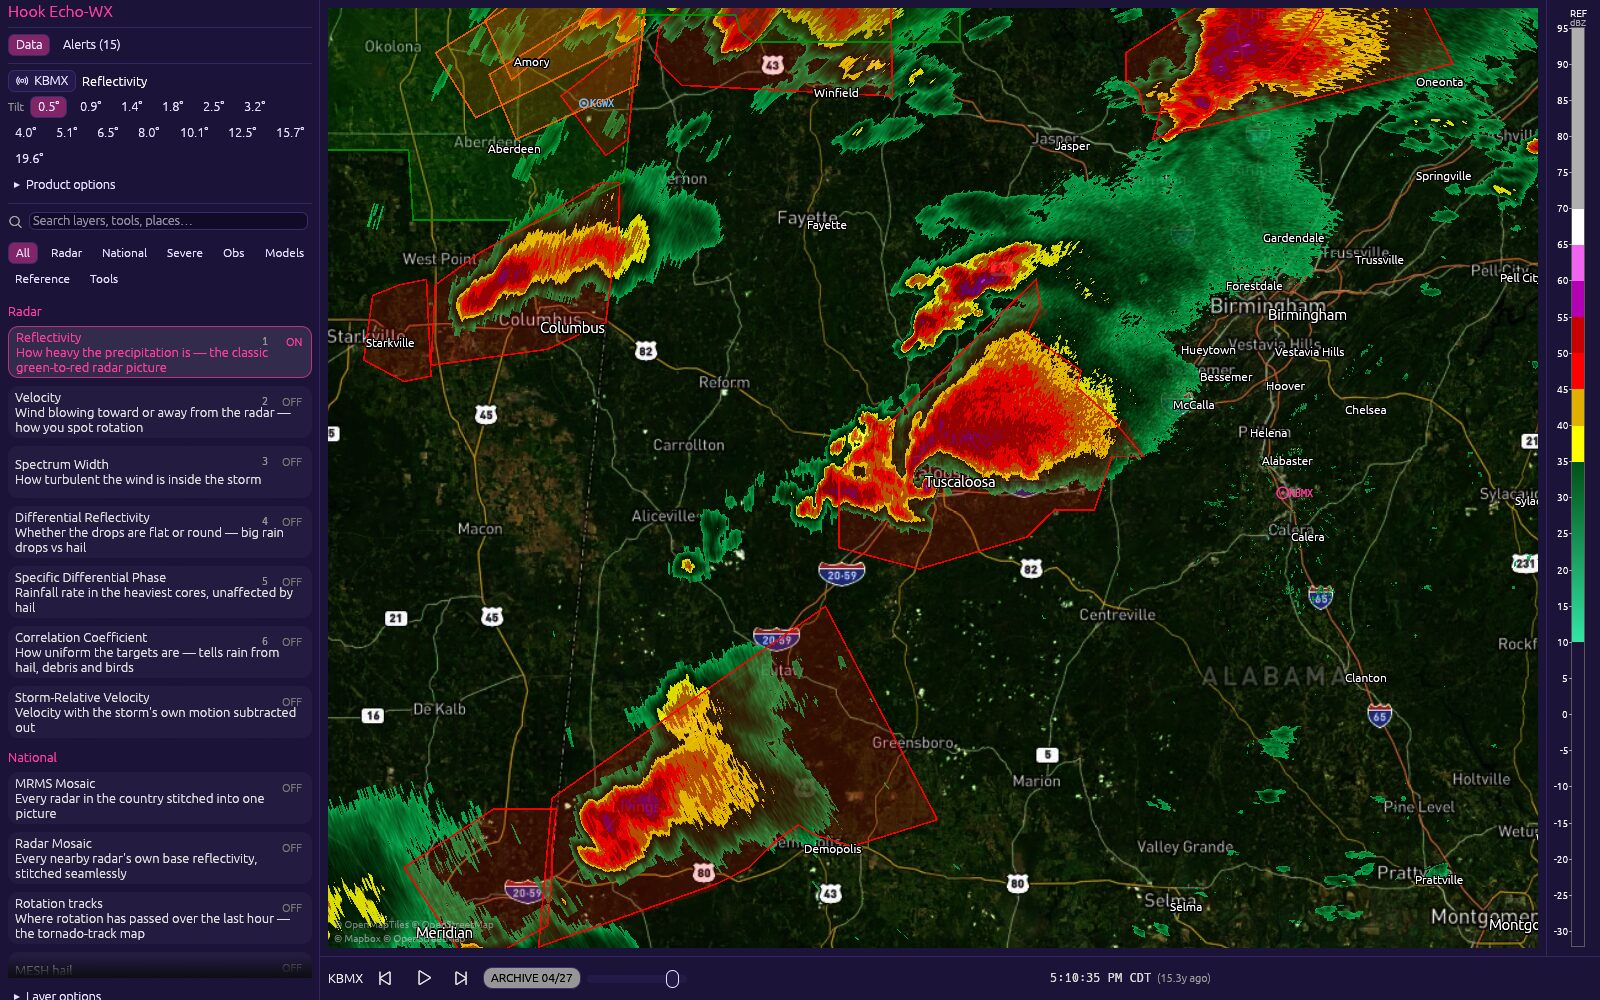
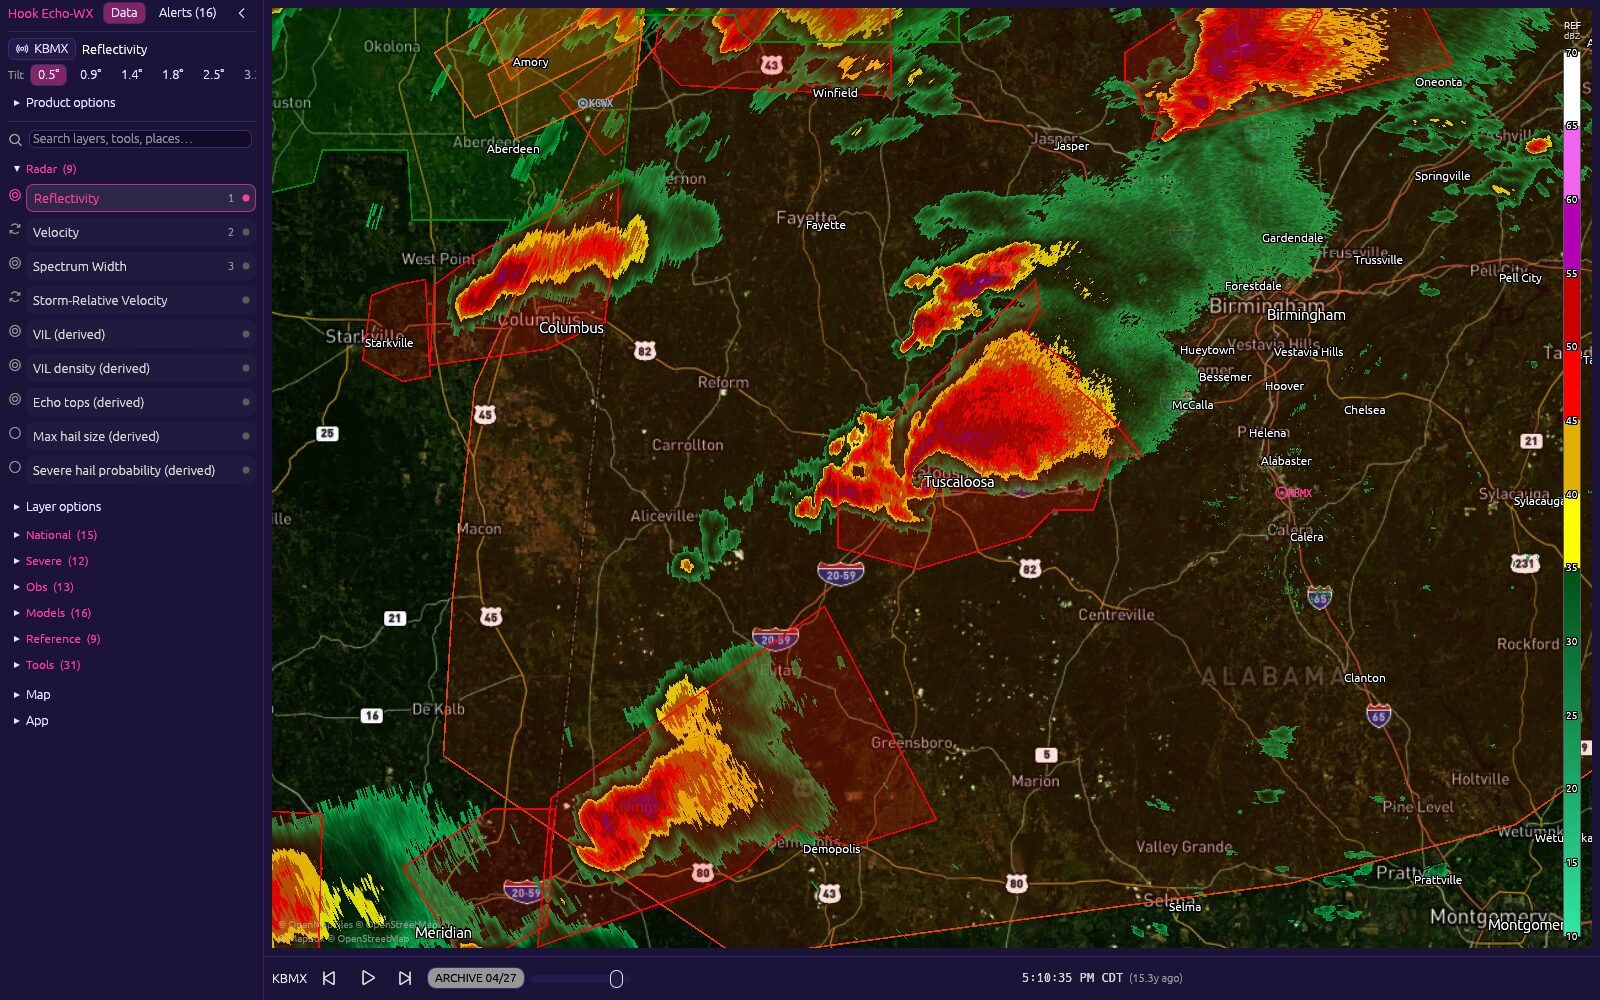
feat(legend): thin floating colorbar over the map's colored range only
The moment scale was a 54 px docked right panel spanning the moment's full
encodable range, so reflectivity spent a third of the map's edge on -32..10 dBZ
that has no color at all.

It's now a 16 px bar floating over the map (no panel, no card, nothing behind
it), spanning the color table's own first..last stop, with the tick labels
halo'd on the bar and the product/units caption above it. The map gets the
54 px back and each pane draws its own product's scale.

diff --git a/crates/hookecho/src/ui/legend.rs b/crates/hookecho/src/ui/legend.rs
@@ -1,7 +1,7 @@
 //! Color scales for what's on the map.
 //!
-//! The active moment's scale is the docked right-edge colorbar ([`draw_vertical`]); gridded field
-//! layers and the wind ramp keep their small cards over the map's top-left.
+//! The active moment's scale is a thin bar floating over the map's right edge ([`draw_vertical`]);
+//! gridded field layers and the wind ramp keep their small cards over the map's top-left.
 //!
 //! Draws the active moment's `ColorTable` across its data range as a gradient bar (one
 //! `egui::Mesh` quad per stop segment, per-vertex colors so `Color:` gradients show), with
@@ -34,10 +34,12 @@ fn card(painter: &egui::Painter, panel: Rect) {
     );
 }
 
-/// Paint the moment scale as a thin vertical bar filling `rect` (the right-edge colorbar panel).
+/// Paint the moment scale as a thin vertical bar floating over the right edge of `rect` (the map).
 ///
-/// Same table, same threshold dim, same tick stride logic as [`draw`] with the axes swapped:
-/// vmax at the top, ticks and labels to the left of the bar, unit caption above it.
+/// No card: the bar is the legend, so the map reads through everywhere else. It spans the color
+/// table's own stops rather than the moment's full encodable range — reflectivity's -32..10 dBZ
+/// is uncolored, and a third of the bar spent on nothing is a third of the map's edge wasted.
+/// Labels ride on the bar (halo'd, so they read over any color) instead of a gutter beside it.
 pub fn draw_vertical(
     painter: &egui::Painter,
     rect: Rect,
@@ -47,12 +49,15 @@ pub fn draw_vertical(
     disp_factor: f32,
     disp_label: &str,
 ) {
-    const W: f32 = 12.0;
-    let (vmin, vmax) = moment.value_range();
+    const W: f32 = 16.0;
+    let (vmin, vmax) = match (table.stops.first(), table.stops.last()) {
+        (Some(a), Some(b)) if b.value > a.value => (a.value, b.value),
+        _ => moment.value_range(),
+    };
     let span = (vmax - vmin).max(f32::EPSILON);
     let bar = Rect::from_min_max(
-        egui::pos2(rect.right() - W - 8.0, rect.top() + 26.0),
-        egui::pos2(rect.right() - 8.0, rect.bottom() - 8.0),
+        egui::pos2(rect.right() - W - INSET, rect.top() + INSET + 32.0),
+        egui::pos2(rect.right() - INSET, rect.bottom() - INSET),
     );
     let y_of = |value: f32| bar.bottom() - ((value - vmin) / span).clamp(0.0, 1.0) * bar.height();
     let col = |c: [u8; 4]| Color32::from_rgb(c[0], c[1], c[2]);
@@ -109,11 +114,29 @@ pub fn draw_vertical(
     );
 
     let font = FontId::proportional(10.0);
+    // On-bar text needs its own contrast: an 8-way black halo, the same trick the map's city
+    // labels use over imagery.
     let label = |v: f32, y: f32| {
+        let text = format!("{:.0}", v * disp_factor);
+        let at = egui::pos2(bar.center().x, y);
+        for dx in [-1.0, 0.0, 1.0] {
+            for dy in [-1.0, 0.0, 1.0] {
+                if dx == 0.0 && dy == 0.0 {
+                    continue;
+                }
+                painter.text(
+                    at + Vec2::new(dx, dy),
+                    Align2::CENTER_CENTER,
+                    &text,
+                    font.clone(),
+                    Color32::BLACK,
+                );
+            }
+        }
         painter.text(
-            egui::pos2(bar.left() - 4.0, y),
-            Align2::RIGHT_CENTER,
-            format!("{:.0}", v * disp_factor),
+            at,
+            Align2::CENTER_CENTER,
+            text,
             font.clone(),
             Color32::WHITE,
         );
@@ -127,8 +150,8 @@ pub fn draw_vertical(
             while v <= vmax && n < 128 {
                 let y = y_of(v);
                 painter.line_segment(
-                    [egui::pos2(bar.left() - 3.0, y), egui::pos2(bar.left(), y)],
-                    Stroke::new(1.0, Color32::from_gray(160)),
+                    [egui::pos2(bar.left(), y), egui::pos2(bar.left() + 3.0, y)],
+                    Stroke::new(1.0, Color32::from_black_alpha(120)),
                 );
                 if v <= vmin + 0.01 || v >= vmax - 0.01 || n % label_stride == 0 {
                     label(v, y);
@@ -143,20 +166,30 @@ pub fn draw_vertical(
             label(vmax, bar.top());
         }
     }
-    painter.text(
-        egui::pos2(bar.center().x, rect.top() + 6.0),
-        Align2::CENTER_TOP,
-        moment.short_name(),
-        FontId::proportional(10.0),
-        Color32::WHITE,
-    );
-    painter.text(
-        egui::pos2(bar.center().x, rect.top() + 16.0),
-        Align2::CENTER_TOP,
-        disp_label,
-        FontId::proportional(9.0),
-        Color32::from_gray(170),
-    );
+    // Caption above the bar: product then units, small — the bar itself is the legend. Above,
+    // because the bottom end carries the busiest tick labels.
+    for (i, (text, size, color)) in [
+        (moment.short_name(), 10.0, Color32::WHITE),
+        (disp_label, 9.0, Color32::from_gray(200)),
+    ]
+    .into_iter()
+    .enumerate()
+    {
+        let at = egui::pos2(bar.center().x, bar.top() - 32.0 + i as f32 * 11.0);
+        for d in [Vec2::new(1.0, 1.0), Vec2::ZERO] {
+            painter.text(
+                at + d,
+                Align2::CENTER_TOP,
+                text,
+                FontId::proportional(size),
+                if d == Vec2::ZERO {
+                    color
+                } else {
+                    Color32::BLACK
+                },
+            );
+        }
+    }
 }
 
 /// Paint a gridded field layer's scale under the moment legend (or at the top-left when the radar

diff --git a/crates/hookecho/src/app.rs b/crates/hookecho/src/app.rs
@@ -4528,22 +4528,6 @@ impl HookEchoApp {
     }
 
     /// Thin right-edge colorbar: the active pane's moment scale, docked so it never covers the map.
-    fn colorbar(&mut self, root: &mut egui::Ui) {
-        let view = &self.views[self.active];
-        if !view.show_legend || view.volume.is_none() {
-            return;
-        }
-        let (moment, threshold) = (view.moment, view.active_threshold());
-        let table = self.palettes.table(moment).clone();
-        let (df, dl) = display_units(moment, &self.settings);
-        egui::Panel::right("colorbar")
-            .exact_size(54.0)
-            .show(root, |ui| {
-                let rect = ui.max_rect();
-                ui::legend::draw_vertical(ui.painter(), rect, moment, &table, threshold, df, dl);
-            });
-    }
-
     /// Docked timeline scrubber (desktop): transport + scrub + live badge in a full-width bar
     /// under the map. The date picker, loop and speed are one right-click away on the
     /// LIVE/ARCHIVE badge — the transport is the 95% case and gets the pixels.
@@ -10010,8 +9994,20 @@ impl HookEchoApp {
         // The boxed legend is desktop-only; Android draws a full-width color scale in the mobile
         // chrome (see `app::mobile`), so drawing both would be redundant.
         if view.show_legend && !cfg!(target_os = "android") {
-            // The moment's own scale is the docked right-edge colorbar (see `colorbar`); only the
-            // categorical field/wind ramps still need a card over the map.
+            // The moment's scale floats over this pane's right edge (no panel, no card) so the map
+            // keeps the pixels; the field/wind ramps still need their cards.
+            if view.volume.is_some() {
+                let (df, dl) = display_units(view.moment, &self.settings);
+                ui::legend::draw_vertical(
+                    &painter,
+                    prect,
+                    view.moment,
+                    self.palettes.table(view.moment),
+                    view.active_threshold(),
+                    df,
+                    dl,
+                );
+            }
             let mut y = 0.0;
             // Whichever gridded layer the user actually sees on top — the last enabled one in
             // paint order — gets its scale keyed underneath. Without this, MESH/QPE/VIL and the
@@ -11787,7 +11783,6 @@ impl eframe::App for HookEchoApp {
             if !self.settings.hide_toolbar {
                 self.timeline_bar(root);
             }
-            self.colorbar(root);
         }
 
         self.chrome_rect = root.available_rect_before_wrap();
